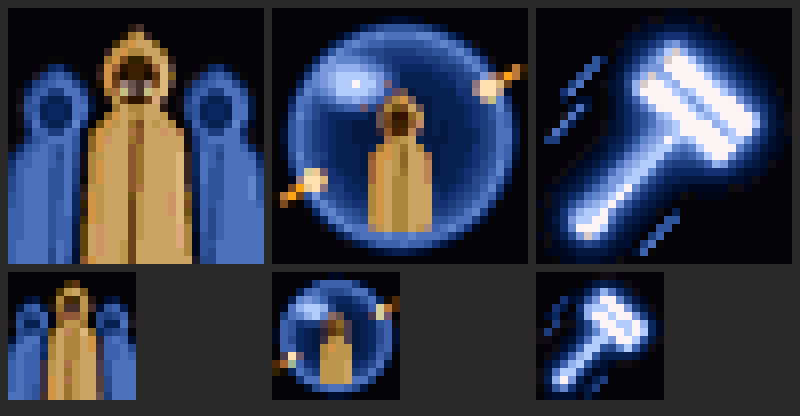
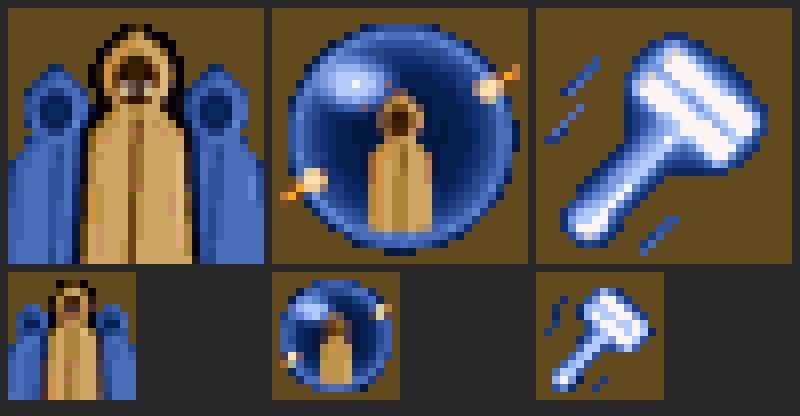
Document the Caster AI setting and the spells of the port
docs/re/ai.md: the rules, the lists and the measures of each caster type before and after. docs/re/spells.md section 15: the five spells, their paths, the scrolls, Aleena Paladinstar, candidates for more spells. docs/audit/monsters.md, README.md, docs/architecture.md, tools/README.md.

diff --git a/docs/re/ai.md b/docs/re/ai.md
@@ -1298,6 +1298,205 @@ leaves out each creature with a mage or cleric level and each creature with
 a ranged attack, and `creature_in_combat()` and `creature_senses_player()`
 tell a caster whether it fights and whether it sees the player.
 
+### Caster AI (Dtu_caster_ai, 2026-11-27)
+
+A decision of the user: the casters of 1.3 stand and let the player kill them, so
+the port moves away from the caster AI of 1.3. The setting is "Caster AI" of the
+Improvements menu (`CasterAI` in `ascent.cfg`, on by default). `-origcasterai`,
+`-origobj` and `-noimprovements` turn it off: then the casts are those of 1.3
+(0x92D99, 0x9231F, 0x91FDC with the `Dtu_fix_caster_*` corrections), and the
+object log of a run is the same as before the setting (checked: DROW1, the mage
+obj 13, 80 seconds, the log of the build before the change and of this build with
+`-origcasterai` are equal byte for byte).
+
+Why the casters of 1.3 are passive (Code, `dtuspell.c`):
+
+- No creature has a spell list. All casters choose from one table of 44 entries
+  (0x142084) by weights (0x9231F). The weights favor Light, Continual Light and
+  the spells on the caster itself; a damage spell must pass a strict test (a ray
+  of radius 30 to the player for Burning Hands, Color Spray, Magical Stone and the
+  meteors, 160 units of free facing for Lightning Bolt, no other hostile creature
+  in the segment of the player for Fireball and Confusion).
+- After a cast a ranged caster has the choice -1, and the attack goal (0x12916)
+  becomes ATAK only for a chosen spell: it does not attack between two casts. The
+  models of the drow casters (`dlf_ffk.pof`, `dlf_ffk5.pof`, `drw_mmk5.pof`,
+  `drw_mmk7.pof`) have no fire frame in their attack states, so they never reach
+  `ai_fire` (0x11B06): no touch and no weapon spell (the weapon type below 0).
+- The points are few (rmmk5: 11) and come back (9 - levels) minutes after the
+  last cast. Bless and Magical Vestment take 60 seconds of cast time.
+- A ranged caster circles the player at its circle distance (0x125B9), about the
+  size of the player.
+
+The rules of the setting (`dtuspell.c`: `caster_frame` and the functions around
+it; `dtucaster.h`: the lists; `dtuobj_ai.c`: `caster_move`, `choose_attack_goal`,
+`ai_fire_body`):
+
+1. **Lists.** Each caster type has a spell list and a caster level
+   (`Caster_types` of `dtucaster.h`, by the name of the `$MONSTER` line). The
+   level is the level of AD&D 2e for the type (the number of the type name for
+   the drow and the humans, 12 for a lich, 18 for Halaster); 1.3 takes max hit
+   points / 8 (0xAE3BB: rmmk9 with 36 hit points casts at level 4). A caster has
+   a spell of spell level s from caster level 2 s - 1 on, or from the level of
+   its entry. The lists:
+
+   | List | Types | Contingency | Attacks |
+   |---|---|---|---|
+   | drow mage | rmme1, rmmf1, rmmq1, rmmk1, rmmf3, rmmk3, rmmk5, rmmk7, rmmk9, rmmk9b | Shield, Mirror Image, Minor Globe (level 9) | Magic Missile, Burning Hands (in its reach), Melf's Acid Arrows, Hold Person, Lightning Bolt and Fireball (level 9) |
+   | drow priestess | rffk1, rffk5, rfft1, rfft4, rfft6, rmft1, rmfk1, rmfk4, rmfk5, rmfk9, prstsprt | Protection From Evil, Prayer | Spiritual Hammer, Hold Person, Magical Stone |
+   | drow high priestess | rffk8, rffk8b, rffk9, rfft9, drowfem, priestes | Protection From Evil, Prayer | the same and Flame Strike (level 8) |
+   | lich | lich1, lich2, lich3 | Stone Skin, Shield, Minor Globe, Mirror Image | Fireball, Lightning Bolt, Hold Person, Magic Missile, Slow |
+   | archmage | halaster, ibbalar, Aleena, hmmnpc | as the lich | as the lich and Melf's Acid Arrows |
+   | mage | kob_spel, hmmk1, hfmk1, Daspel, Mage Spirit | Shield, Mirror Image | Magic Missile, Burning Hands, Melf's Acid Arrows, Hold Person, Lightning Bolt |
+   | human cleric | hffk1, hfft1, hfft4, hfft9, hmct1, hmfk1, hmft4, hmft7 | Bless | Hold Person; Cure Light Wounds (Cure Serious Wounds from level 7) on itself below half of its hit points; then melee |
+   | illithid | flayer | none | Mind Blast (a power: no points, 18 seconds between two), Hold Person (the weapon spell of the type in 1.3, 0xAC7B2); it walks to the player and touches (2d4) |
+   | beholder | Beholder, xabash | none | Slow, Fear, Hold Person, Magic Missile, Lightning Bolt: its eyes as the spells that the tables have (AD&D 2e: slow, fear, charm or sleep, cause serious wounds, disintegrate) |
+   | Thashasa | thashasa | Shield, Mirror Image, Protection From Evil | Magic Missile, Melf's Acid Arrows, Hold Person, Spiritual Hammer, Lightning Bolt; Cure Light Wounds on itself |
+   | avatar of Lolth | avatar | Stone Skin, Minor Globe, Protection From Evil | Hold Person, Flame Strike, Lightning Bolt, Slow; it fights in melee |
+
+   The dragon ("Dragon") and its hatchlings ("hatchlng") have no list: their casts
+   are those of 1.3. The priestess types of about 1000 experience points and more
+   (rffk8b 975, rffk9 1400; drowfem 2000 and priestes 1400 of the inn) have Flame
+   Strike, in each level where they are (the list goes by the type name).
+   Protection From Evil on a creature also gives -2 to the attack rolls against
+   it and +2 to its saves against the player (for the drow it is the reverse of
+   the spell, Protection From Good); 1.3 has the effect only against creatures
+   (0x2AD36).
+
+2. **Senses.** The loop does nothing before the creature is hostile, active and
+   in a fight (`dtu_creature_in_fight`): with Improved AI it has seen or heard the
+   player along an open path in the last 30 seconds (`creature_in_combat`), or the
+   player attacked it. A caster behind a closed door gets no protection and casts
+   nothing. A cast needs a free line from the eye of the caster to the player (a
+   plain ray, no hidden player, no blind caster); a cast whose line is gone at the
+   cast time does not happen and keeps its points.
+
+3. **The fight and the contingency.** A fight starts at the first notice and ends
+   when the creature has not been in a fight for 120 seconds. At its start the
+   creature gets the protections of its list at once, with no cast time and no
+   points (the contingency), and its spell points: the points of the NPC table
+   (0xA504A), and 4 for each caster level at least (rmmk5: 20 in place of 11).
+   The points do not come back in a fight; a new fight has all of them. 1.3
+   refills them (9 - levels) minutes after the last cast.
+
+4. **The casts.** One cast in each round of 6.0 seconds: a choice, the cast time
+   of the spell (the table of 0x13A8DB, 6 seconds at most), the cast; the next
+   choice 6.0 seconds after the choice and 2.0 seconds after the cast at least. A
+   ranged type starts its attack animation 1.0 second before the cast and casts
+   at the fire frame of the model, or at the middle of the attack state of a
+   model with no fire frame, or at the cast time. A ranged caster stands in its
+   cast time. A hit that takes hit points in the cast time stops the cast and
+   takes its points (0x9305D); the next choice is 3.0 seconds later. A cast whose
+   line or whose missile way is not free at the cast time does not happen and
+   keeps its points. The test option `-noattack` stops the loop.
+
+5. **The choice** (`caster_weight`): among the spells of the list that the points
+   pay for, by weight, without: a spell whose range (docs/spell_ranges.md) does
+   not reach the player; a missile that does not meet the player first (a wall,
+   scenery or a creature of the other side on its way, tested in pieces of 1.0 as
+   the flight tests them; the missiles pass the allies of the caster and a piece
+   of scenery that touches its body); Burning
+   Hands out of its reach; Fireball when the caster or an ally is in its radius at
+   the player; Magic Missile against Shield; Hold Person against a hold, Free
+   Action or Protection From Evil, and in the 30 seconds after the last one of
+   this caster; Slow against a slowed player, Fear against a player in fear; each
+   spell that a Minor Globe of the player stops. Fire spells have a third of
+   their weight against Resist Fire and Protection From Fire. Damage has two
+   times its weight against a held player, and the spells that the images of the
+   player do not fool against a player with images. With a free line, points and
+   no free way for a missile for two choices the caster steps to the side for 2.0
+   seconds. When a Minor Globe of the player stops each spell that the caster
+   could cast, it fights in melee while the globe lasts.
+
+6. **Allies.** A harmful spell of a creature does not act on a creature of its
+   side, and its missile passes them. The area of a damage spell does act on them
+   (Fireball, Burning Hands), so the caster does not choose Fireball with an ally
+   in the radius. 1.3: the area of Hold Person (radius 40 after the table fixup)
+   held the priestess next to the player.
+
+7. **The move** of a ranged caster that sees the player (`caster_move`): with
+   spells it backs away from a player nearer than 40.0 (20 feet) with its face to
+   the player while the 8.0 behind its body are free of walls, it walks to a
+   player farther away than 80.0, and between the two it holds its place. With no
+   points for a spell of its list it walks to the player, up to the reach of its
+   touch. A caster with a melee attack (the human clerics, the avatar) moves as a
+   melee creature of Improved AI. The illithid always walks to the player. The
+   beholders fly and keep the move of 1.3. No caster fires a weapon (0x11DE9, as
+   1.3): the weapon of the beholders in the tables (Beholder Burn) has the
+   lifetime -1.
+
+8. **Between two casts** a ranged caster attacks a player in the reach of its
+   touch (the radius of its body, the radius of the body of the player and 2.0,
+   as 0x11B06): the goal state is ATAK in reach and LOCK out of it, not RECO.
+   The touch is the melee hit of the creature (its dice of the setup by name: the
+   drow casters 4d4, the illithid 2d4, with its touch spell if it has one). A
+   beholder does not touch between its casts: its touch in the tables is its
+   weapon Beholder Burn (13 to 24 hit points from 10 feet, measured), which 1.3
+   gives it only in the attack state of a cast.
+
+9. **The model of the drow priestesses.** The data has the drow woman with free
+   hands (`dlf_ffk.pof`, `dlf_ffk5.pof`) in DROW.EGG, FLAME.EGG, NETHER.EGG and
+   PORTAL.EGG, and with a mace in the right hand (`dlf_fft.pof`, the model of the
+   type rfft6 of NETHER.BIN) only in NETHER.EGG, an archive that no level of 1.3
+   loads. The disc has it (NETHER.COW); the installed game of 1.3 does not copy
+   it. With the setting and the archive in a data folder the priestess types of
+   the two lists get `dlf_fft.pof` (`bm_port_priestess` of `bmread.c`,
+   `piggy_load_egg_model` of `piggy.c`); without the archive they keep their
+   model. Its attack state is the swing of the mace, which the cast and the touch
+   now show.
+
+The measures of `tools/check_caster_ai.py --table` (the player is a fighter of
+level 8 with armor class 10 who stands in front of the caster for 60 seconds and
+does not fight; seed 1; "before" is `-origcasterai`; damage for each round of 6
+seconds from the first notice):
+
+| Type | Before: casts | attacks | damage per round | After: contingency | casts | attacks | seconds between attacks | damage per round |
+|---|---|---|---|---|---|---|---|---|
+| lich | 4 | 4 | 3.3 | Stone Skin, Shield, Minor Globe of Invulnerability, Mirror Image | 10 | 10 | 5.8 | 14.9 |
+| drow mage 5 (rmmk5) | 6 | 6 | 0.2 | Shield, Mirror Image | 10 | 10 | 6.0 | 9.2 |
+| drow mage 7 (rmmk7) | 5 | 5 | 0.0 | Shield, Mirror Image | 10 | 10 | 6.0 | 13.0 |
+| drow mage 9 (rmmk9) | 4 | 4 | 1.5 | Shield, Mirror Image, Minor Globe of Invulnerability | 10 | 10 | 6.0 | 11.2 |
+| drow priestess 5 (rffk5) | 2 | 2 | 0.0 | Protection From Evil, Prayer | 9 | 9 | 6.7 | 3.6 |
+| drow priestess 8 (rffk8b) | 3 | 3 | 0.0 | Protection From Evil, Prayer | 8 | 8 | 7.5 | 10.8 |
+| illithid (flayer) | 0 | 2 | 0.0 | none | 5 | 38 | 1.5 | 15.9 |
+| human cleric 4 (hmft4) | 4 | 9 | 15.6 | Bless | 2 | 36 | 1.6 | 23.4 |
+| human cleric 7 (hmft7) | 0 | 5 | 2.0 | Bless | 2 | 37 | 1.6 | 14.7 |
+| kobold shaman (kob_spel) | 0 | 0 | 0.0 | Shield | 8 | 8 | 6.0 | 4.2 |
+| Ibbalar | 3 | 4 | 0.0 | Stone Skin, Shield, Minor Globe of Invulnerability, Mirror Image | 10 | 38 | 1.5 | 29.6 |
+| Halaster | 0 | 0 | 0.0 | none | 0 | 0 | - | 0.0 |
+| Thashasa | 0 | 0 | 0.0 | Shield, Mirror Image, Protection From Evil | 0 | 0 | - | 0.0 |
+| Xabash | 4 | 4 | 0.8 | none | 10 | 35 | 1.7 | 64.2 |
+| beholder | 0 | 0 | 0.0 | none | 9 | 10 | 5.5 | 11.6 |
+| avatar of Lolth | 4 | 38 | 24.5 | Stone Skin, Minor Globe of Invulnerability, Protection From Evil | 8 | 43 | 1.3 | 32.6 |
+| priest spirit (prstsprt) | 2 | 2 | 0.0 | Protection From Evil, Prayer | 9 | 9 | 6.4 | 3.4 |
+| Mage Spirit | 4 | 4 | 4.7 | Shield, Mirror Image | 10 | 10 | 6.3 | 12.3 |
+| Aleena Paladinstar | 5 | 5 | 2.2 | Stone Skin, Shield, Minor Globe of Invulnerability, Mirror Image | 6 | 6 | 5.8 | 8.1 |
+| drow priestess of the inn (drowfem) | 3 | 3 | 0.0 | Protection From Evil, Prayer | 7 | 8 | 7.2 | 9.0 |
+| priestess of the inn (priestes) | 4 | 4 | 0.4 | Protection From Evil, Prayer | 7 | 7 | 8.1 | 15.3 |
+| dragon hatchling (hatchlng), not in the list | 2 | 3 | 0.1 | none | 2 | 3 | 7.5 | 1.8 |
+
+The damage of the bosses with a touch (Ibbalar, the avatar) is mostly their touch
+(a Long Sword +2 by the creature setup), which they now use in each attack cycle
+in reach. Halaster is not an AI object before his script starts him, and Thashasa
+loses the player at once in this setup: both are not measured. The hatchling is
+not in the lists; its numbers differ only by the random numbers (a drow mage near
+the start casts before the test removes it).
+
+The balance (a decision of the user: a character of level 6 to 8 wins against one
+drow mage and one priestess with care, and fears the lich): a fighter of level 7
+has about 70 hit points. The mage and the priestess of level 5 together deal 13
+hit points in a round to a character with armor class 10 who only stands there
+(before: 0.2), so they need 5 to 6 rounds. The mage has 20 hit points and 2 to 5
+images, the priestess 40 hit points; a hit in the cast time stops a cast, and the
+points of the mage are gone after about 12 casts. Hold Person (6 to 18 seconds on
+the player) is the danger. The lich deals 15 in a round (before: 3.3) behind
+Stone Skin (7 to 10 hits), 5 to 8 images and a Minor Globe: a fighter needs about
+25 hits, 9 rounds or more, and takes about 135 hit points in that time. Dispel
+Magic (a scroll lies in CLAN3, object 30) ends the protections.
+
+Not verified: a fight of a whole group played by hand; the casters of the levels
+that the check does not start (the list goes by the type name, so they use the
+same code).
+
 ### The feet of a standing creature (Dtu_fix_creature_feet)
 
 An inactive creature stands on the center of the bottom side of its segment

diff --git a/docs/re/spells.md b/docs/re/spells.md
@@ -702,3 +702,124 @@ Verified in the bytes of DTUGAME.EXE 1.3 (`dtu13.elf`, objdump), 2026-11-25.
   Melf's Acid Arrows 116.
 - **Color Spray** (spell 6): 0x56FF6 sets the vclip of the template to 175 +
   rand() % 6 for each cast, so the missiles of one cast have one color.
+
+## 15. The spells of the port (`Dtu_caster_ai`, 2026-11-27)
+
+A decision of the user. 1.3 has the spell lines 0 to 55 (44 tables) or 0 to 51
+(DEMO, MOIN1). The port adds five lines after the table fixup of each table read
+(`bm_load_level_tables`, `dtu_spell_port_line` of `dtuspell.c`). They are not in
+1.3 and follow AD&D 2nd edition. The lines are always there, so that a save with a
+new spell works with the setting off; the setting `Dtu_caster_ai`
+(`dtuopts.h`) brings them into the game: the scrolls of section 15.4, the sets of
+Aleena Paladinstar and the spell lists of the creatures (ai.md, "Caster AI").
+
+| Line | Spell | Class, level | Cast time | Rule |
+|---|---|---|---|---|
+| 56 | Mirror Image | mage 2 | 2 s | On the caster. 1d4 images and one for each 3 caster levels, 8 at most, for 3 rounds (minutes) a level. An attack that would hit the caster, or a spell aimed at the caster alone, takes an image with the chance images / (images + 1); the image is gone. A miss removes no image. An area is not fooled (Fireball, Burning Hands, Flame Strike, Mind Blast, Lightning Bolt). |
+| 57 | Minor Globe of Invulnerability | mage 4 | 4 s | On the caster, 1 round a level. No spell of level 1 to 3 acts on the one inside. A spell that it casts on itself works; its own damage spell is stopped. Dispel Magic ends the globe. Mind Blast is not a spell and is not stopped. |
+| 58 | Spiritual Hammer | cleric 2 | 5 s | A hammer of force flies to the target (the model of the Throwing Hammer, `y_a.pof`): an attack roll with the THAC0 of the caster against the armor class against missiles, 1d4 + 1 damage, and +1 to hit and to the damage for each 6 caster levels (+3 at most). No save. Range 10 yards a level. |
+| 59 | Flame Strike | priest 5, creatures only | 8 s (a creature: 6 s) | A column of fire on the target: 6d8 fire damage, a save for half. The fire dice of 0x91BC3: Resist Fire halves, Protection From Fire takes it from its pool, the fire resistance of items applies. |
+| 60 | Mind Blast | the illithids only | 1 s | A cone 60 feet (120 units) long, about 21 degrees to each side. Each creature of the other side in it saves against wands (category 1) at -4, or is stunned. |
+
+### 15.1 The paths of the globe and the images
+
+All spell effects on a player or a creature go through `apply_spell` (0x8CFFF): a
+missile that hits a body (`dtu_spell_hit`), the area of a missile at a wall or a
+body (`dtu_spell_area`, 0x90CEF), the cone of Burning Hands, the touch spell of a
+creature (`dtu_spell_touch`), a potion or an item (`dtu_spell_cast_on`), a wand, a
+scroll and a trap (their missiles carry the spell number). The test of the globe is
+at the start of `apply_spell`, so each of these paths has it. The burst of Fireball
+that blinds and deafens (0x90DDF) tests the globe too. Not through `apply_spell`,
+and not stopped: the lava (`dtu_spell_lava`, the dice of Fireball with no spell) and
+the later rounds of an acid arrow that hit before the globe.
+
+The images are asked in two places: in the hit test of an attack roll
+(`dtu_hit_test_vs`, before Stone Skin: a melee attack, a weapon missile, the spells
+with an attack roll: Magical Stone, Minute Meteors, Spiritual Hammer, the acid
+arrow) and in `apply_spell` for a spell without an attack roll that spares its
+caster (`DTU_SR_SPARES_CASTER`: Magic Missile and the like) when no area applies
+it. Hold Person is an area in 1.3 (radius 40 after the table fixup), so the images
+do not take it.
+
+The effect word of an object (+0x88) has no free bit, so the two effects are kept
+in `dtuspell.c` by object number and signature (`Xfx`). They are not in a save game
+and end at a level change, at a rest and by Dispel Magic. The player sees the count
+of the images in the message box ("A mirror image takes the attack. Images left:
+2."). On a creature the images are more draws of its model to its right and its
+left, four at most (`mirror_images_draw`, `dtuobj.c`).
+
+### 15.2 The stun of the Mind Blast
+
+Monstrous Manual: a cone 60 feet long, 5 feet wide at the illithid and 20 feet at
+its end; all in it save against wands at -4 or are stunned for 3d4 rounds. The port:
+the stun is the Hold effect (bit 14) with the view of the stun of Color Spray (the
+Confusion bit, 0x8CFFF case 6). On the player with `Dtu_fix_player_hold` it lasts
+3d4 seconds (the scale of the hold of the port, 6 to 18 seconds for Hold Person)
+and blocks what a hold blocks (dtuhold.h). Without the setting it is 3d4 rounds cut
+by the wisdom, as the holds of 1.3. Free Action does not prevent it (a decision:
+AD&D 2e gives Free Action against hold, paralysis, web and slow magic, and the
+blast is a psionic stun). The Potion of Freedom ends it, as it ends each hold of
+the port. Protection From Evil gives its +2 to the save.
+
+### 15.3 The player
+
+- The lines 56 and 57 have `mage_use`, the line 58 `cleric_use`: a mage learns the
+  first two from a scroll (0xB69AD), a cleric gets Spiritual Hammer with the spells
+  of spell level 2 (0xB75A8: at a new level and at the first level start after a
+  load, `Dtu_fix_spell_save_repair`). The lines 59 and 60 have no class word: no
+  book takes them.
+- The icons 200 to 202 are new art, drawn by `tools/spell_icons.py` from shapes
+  and stored as color numbers in `dtuspellicons.h`. The icon sheets of the game
+  (FEBGND 23 and 24) have 200 cells and no free one: the loaded sheet gets one more
+  row (`port_icons_add`, `dtudisp.c`).
+- The texts are in the catalog of the port (`engine/lang/es_port.catalog`).
+- Save games: an entry of a spell list has the spell number in one byte and the
+  icon in one byte (16 bytes for each entry), so the record does not change. The
+  DOS game has no line 56 to 60: a save with one of the spells in a book, in the
+  inventory or in a hot key box is for the port only. With the lines missing (a
+  future build without them) the reader skips the entry and the writer keeps its
+  bytes.
+
+### 15.4 The scrolls in the levels
+
+The levels of 1.3 have a spell object of Fireball in six levels and of Melf's Acid
+Arrows three times; no other mage spell lies more than three times (counted over
+the 35 level files with `tools/lvl.py` and `tools/objcheck.py`). With the setting,
+in a level with no saved state (`level_fixes_port_scrolls`, `dtuobj_setup.c`):
+
+| Level | Object | Spell of 1.3 | New spell |
+|---|---|---|---|
+| MINE (11) | 76, segment 309 | Fireball | Mirror Image |
+| MULHOR1 (13) | 69, segment 684 | Melf's Acid Arrows (the second one, object 36, stays) | Mirror Image |
+| MULHOR2 (14) | 43, segment 411 | Fireball | Minor Globe of Invulnerability |
+| CLAN1 (17) | 137, segment 657 | Fireball | Minor Globe of Invulnerability |
+
+Fireball stays in BANE, MULHOR1 and THIEF1. The levels of the last hub have no
+repeated mage scroll.
+
+Aleena Paladinstar (YPINN, script 4 of GABE 1.3) sells Mirror Image with her
+spells of level 2 (1000 gold) and Minor Globe of Invulnerability with those of
+level 4 (5000 gold): `patch_aleena` of `dtuscript.c` (four GOTO statements get a
+new label of the same length, six new blocks at the end of the record, no string
+moves). The record of the disc of version 1.0 (16699 bytes) is not patched.
+
+### 15.5 Candidates for more spells of level 1 to 4
+
+Not built. AD&D 2e spells that the code could take at a low cost:
+
+| Spell | Class, level | What it needs |
+|---|---|---|
+| Blur | mage 2 | -4 to the first attack roll against the caster and -2 to the next ones: one entry of `Xfx` and a line in `dtu_hit_test_vs`. Low. |
+| Stinking Cloud | mage 2 | An area that holds (the Hold bit) for 1d4+1 rounds, a save negates: the area of 0x90CEF and the stun of Mind Blast. Low. |
+| Web | mage 2 | The same as an area that holds until a strength roll: the hold and a new end test. Low to medium (the picture of the web). |
+| Ice Storm | mage 4 | 3d10 in an area, no save: a damage line with the cold dice (the reader has `cold_damage_dice`, 0x91BC3 does not add it). Low. |
+| Flame Arrow | mage 3 | One arrow of fire for each 5 levels, 4d6 each, an attack roll: the missiles of Magic Missile with the fire dice. Low. |
+| Vampiric Touch | mage 3 | A touch of 1d6 for each 2 levels that heals the caster: the touch of Chill Touch and `heal`. Low. |
+| Hold Monster | mage 5 | Outside of the levels 1 to 4. |
+| Cause Light Wounds, Cause Serious Wounds | cleric 1 and 4 | The reverse of the cures as a touch with an attack roll: the cure dice and the touch. Low. |
+| Chant | cleric 2 | Bless with the penalty of -1 for the foes in an area: one more effect entry. Low. |
+| Silence 15' Radius | cleric 2 | No cast in an area: a test in the cast of the player and in the loop of the casters, and an object for the area. Medium. |
+| Heat Metal | cleric 2 | Fire damage each round on a target in metal armor: the acid rounds of Melf's Acid Arrows. Medium. |
+| Call Lightning | cleric 3 | Outdoors only: no place in Undermountain. |
+| Neutralize Poison, Slow Poison | cleric 4 and 2 | The game has no poison state. |
+| Cure Critical Wounds | cleric 5 | Outside of the levels 1 to 4. |

diff --git a/docs/audit/monsters.md b/docs/audit/monsters.md
@@ -305,6 +305,34 @@ in 1.3 was not found; the port puts them at the player at each level start.
 The bit 0x80 of the player +0x1AE has no place in the port. Test:
 `check_creature_setup.py --abilities` (CLAN3, the ghast).
 
+## Caster AI (`Dtu_caster_ai`, 2026-11-27)
+
+A decision of the user, not a correction of a defect: the casters of 1.3 are
+passive (the table "Abilities" above has their rules, which the port keeps with
+`-origcasterai`). With the setting (on by default, "Caster AI" of the
+Improvements menu) the creature types of `engine/main/dtucaster.h` cast by the
+loop of the port: a spell list and an AD&D 2e caster level for each type, a
+contingency of protections at the first notice of the player, one cast in each
+round of 6 seconds, a choice by the situation, spell points for each fight, a
+distance that the caster keeps, melee with no points, no spell on an ally, and
+the new spells Mirror Image, Minor Globe of Invulnerability, Spiritual Hammer,
+Flame Strike and Mind Blast. The rules, the lists and the measures of each type
+before and after are in `docs/re/ai.md`, "Caster AI"; the spells are in
+`docs/re/spells.md`, section 15.
+
+| Creature | With the setting | 1.3 |
+|---|---|---|
+| Lich | Stone Skin, Shield, Minor Globe, Mirror Image at the first notice; Fireball, Lightning Bolt, Hold Person, Magic Missile, Slow at level 12 | the table of 44 entries at level 11 (88 hit points / 8) |
+| Drow mages (rmm*) | Shield, Mirror Image (Minor Globe at level 9); Magic Missile, Burning Hands, Melf's Acid Arrows, Hold Person (Lightning Bolt, Fireball at level 9), at the level of the type name | the same table at hit points / 8: rmmk5 level 2, rmmk9 level 4 |
+| Drow priestesses (rff*, rmf*) | Protection From Evil, Prayer; Spiritual Hammer, Hold Person, Magical Stone; Flame Strike for rffk8, rffk8b, rffk9, rfft9, drowfem and priestes; the model with a mace (dlf_fft.pof) when NETHER.EGG is there | the same table; the models dlf_ffk.pof and dlf_ffk5.pof, which have no fire frame, so no touch |
+| Illithid (flayer) | Mind Blast (a cone of 60 feet, a save against wands at -4 or a stun), Hold Person, then its touch of 2d4; it walks to the player | the weapon spell Hold Person (weapon -22, 0xAC7B2) at its fire frames |
+| Human clerics (hmft*, hfft*) | Bless at the first notice, Hold Person, a cure on themselves below half of their hit points, melee as a fighter of Improved AI | the same table; melee only in the reach test of 0x12916 |
+| Beholder, Xabash | Slow, Fear, Hold Person, and the weapon (Beholder Burn) between the casts | the same table; a caster never fires its weapon (0x11DE9) |
+| Halaster, Ibbalar, Aleena, the avatar, Thashasa, the spirits, the kobold shaman | a list of the same rules (ai.md) | the same table |
+| Dragon, hatchlng | not in the lists: 1.3 | 1.3 |
+
+Test: `python -I tools/check_caster_ai.py --exe EXE --datadir ... --table`.
+
 ## Tests
 
 - `python -I tools/check_creature_setup.py --exe EXE --datadir ... --work

diff --git a/docs/architecture.md b/docs/architecture.md
@@ -65,7 +65,9 @@ comments.
 | `dtuobj_test.c` | The test aids that place the player and the objects: `-testpos`, `-testobjpos`, `-testtour`. | |
 | `dtuchar.c` | The player character: attributes, equipment, item use, rest, experience, levels, choice boxes. Replaces the ship values. | `re/character.md` |
 | `dtucombat.c` | The weapon attack of the player, missile and thrown weapons, the arms in the view, Turn Undead. | `re/combat.md` part A |
-| `dtuspell.c` | Spell books, slots, casting, spell effects, area effects, durations, saving throws, scrolls, wands. | `re/combat.md` part B, `re/spells.md` |
+| `dtuspell.c` | Spell books, slots, casting, spell effects, area effects, durations, saving throws, scrolls, wands, the spells of the creatures and the loop of the Caster AI setting. | `re/combat.md` part B, `re/spells.md`, `re/ai.md` |
+| `dtucaster.h` | The spell lists and the caster levels of the creature types for the Caster AI setting (included by `dtuspell.c`). New in the port. | `re/ai.md`, "Caster AI" |
+| `dtuspellicons.h` | The icons of the spells of the port as color numbers, written by `tools/spell_icons.py`. | `re/spells.md` section 15 |
 | `dtuthief.c` | Thief skills: Open Locks, Find/Remove Traps, Move Silently, Hide In Shadows, Climb Walls, backstab. | `re/combat.md` B7 |
 | `dtuthiefpts.c` | The thief skill point screen. | `re/combat.md` B7 |
 | `dtutrig.c` | Triggers, traps, level messages, the use action and the warps of DTU.WRP. Replaces the triggers of `switch.c`. | `re/triggers.md` |
@@ -167,7 +169,7 @@ To add a correction:
 
 Changes that go beyond the original are not corrections. They are the
 Improvements settings of `dtuopts.h` (`Dtu_improved_physics`,
-`Dtu_improved_jump`, `Dtu_improved_ai`, the GPU and upscale
+`Dtu_improved_jump`, `Dtu_improved_ai`, `Dtu_caster_ai`, the GPU and upscale
 settings, and others). They are in `ascent.cfg`, the menus change them, and
 `-noimprovements` turns them all off. To add one, add the variable to
 `dtuopts.c` and `dtuopts.h` and a line to the table `Opts[]` of

diff --git a/README.md b/README.md
@@ -83,6 +83,7 @@ On Windows, run the setup program; on Linux, unpack the release tarball and run 
 
 * Trolls need fire (or a very thorough hacking while down!) to die. Otherwise, they'll keep standing up to fight. The code was already partially in the game. Your spells hit a troll that is down: fire and acid (Fireball, Melf's Acid Arrow) end it for good.
 * Creatures take fall damage, and long falls always hurt, whatever the frame rate.
+* With Caster AI, the liches, illithids, drow mages, drow priestesses and clerics are dangerous: each kind has its own spells, they protect themselves the moment they notice you, they keep their distance and cast every few seconds, and they fight hand to hand when their magic runs out. They do not hit their own allies with a hold. New spells come with it: Mirror Image, Minor Globe of Invulnerability and Spiritual Hammer for you and them, Flame Strike for the high priestesses and the Mind Blast of the illithids. A hit while a caster casts ruins its spell.
 * With Improved AI (the setting that was Improved pathfinding), creatures handle corners and ladders better, and they notice you only along an open way: a wall or a closed door hides you, and an alarm stops at a closed door. Humanoid creatures open unlocked doors, but only once they fight you. A closed door stops blows in both directions. Creatures that would attack after a talk join their friends when a fight starts in front of them.
 
 **Controls**
